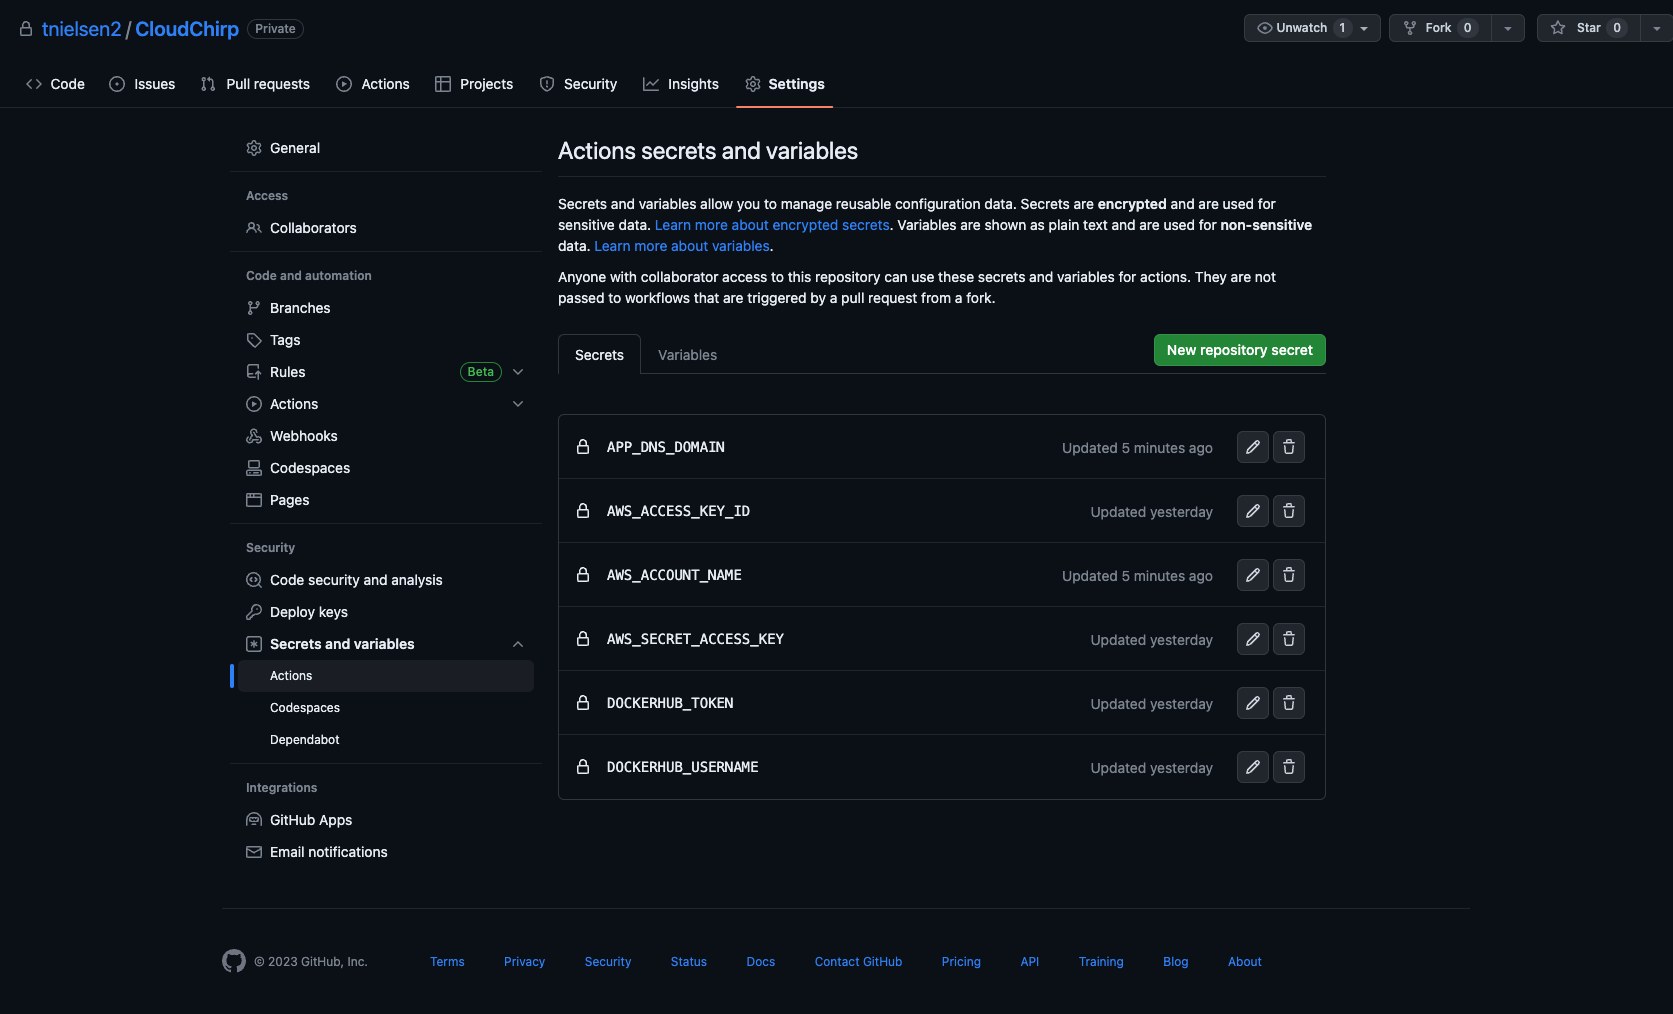
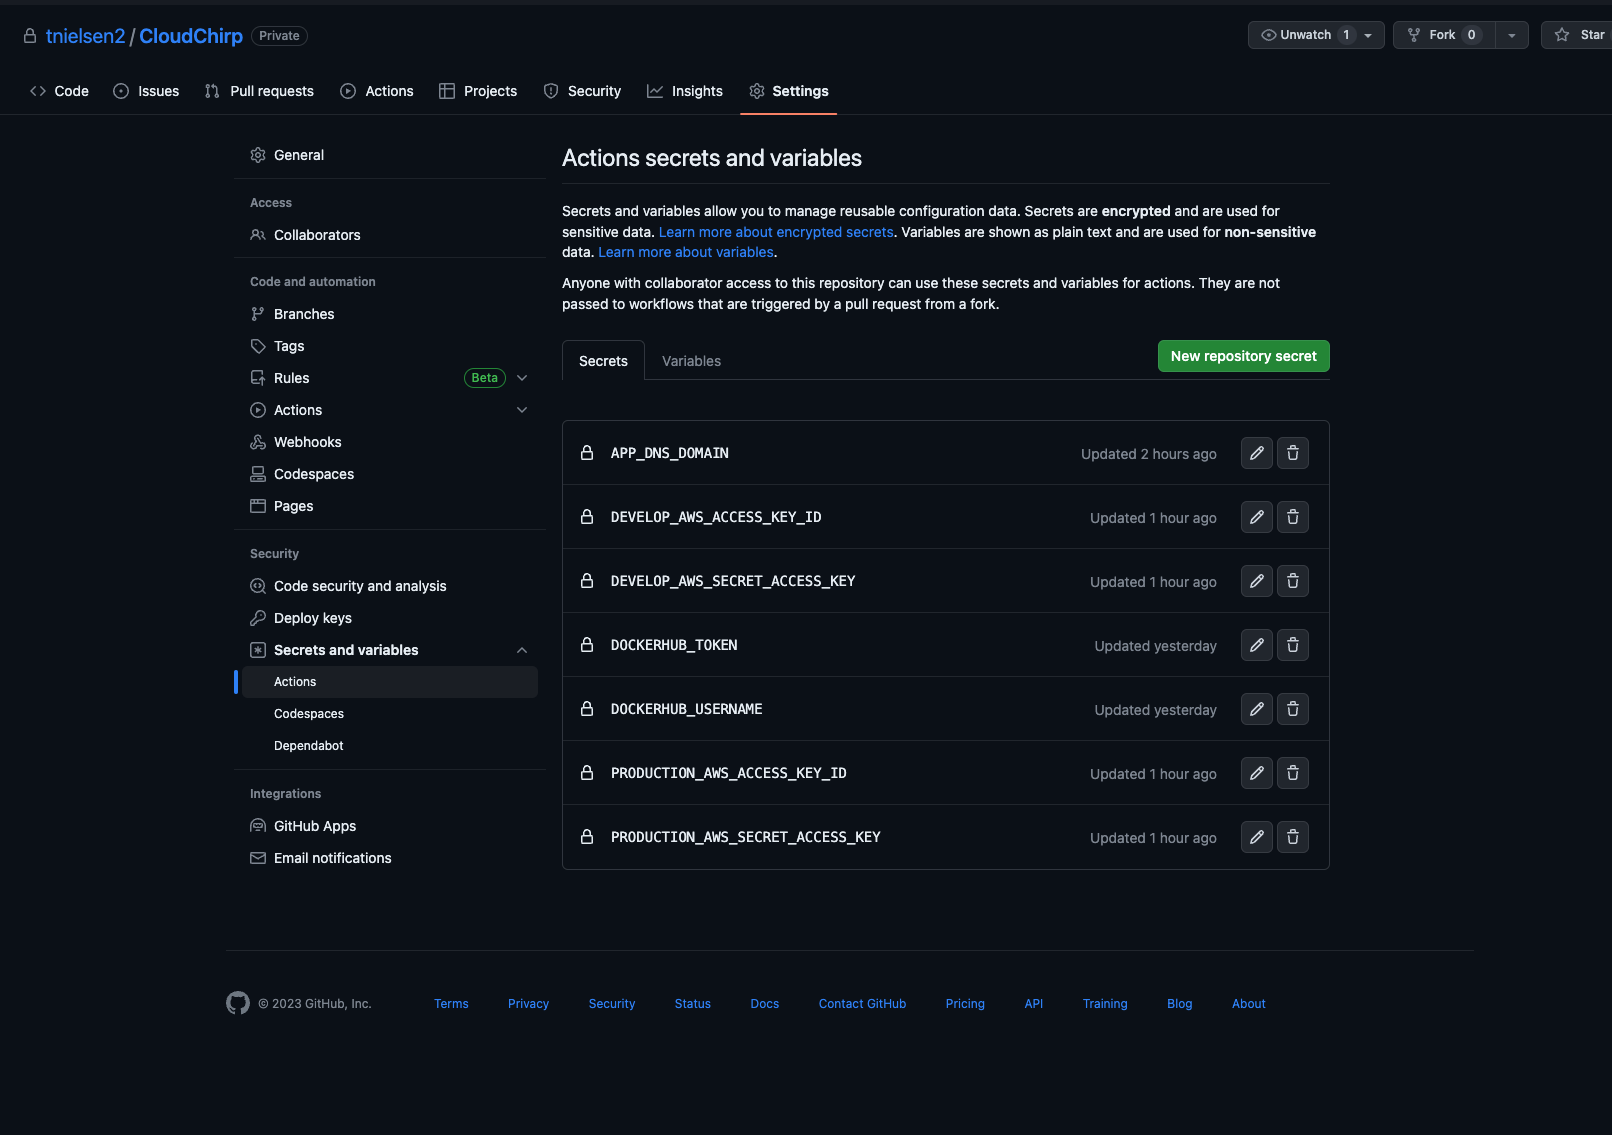
update reademe and pictures

diff --git a/README.md b/README.md
@@ -44,6 +44,6 @@ source .env && aws cloudformation deploy --template-file cloudformation/$ENVIRON
 ![acm-screenshot.png](acm-screenshot.png)
 8. Fetch your aws access keys from the stack outputs and store Github actions secrets as `AWS_ACCESS_KEY_ID` and `AWS_SECRET_ACCESS_KEY`. Also add these to your .env file you want to test locally.
 9. You will now need to configure your Dockerhub credentials `DOCKERHUB_USERNAME` and `DOCKERHUB_TOKEN` for CI to push to Dockerhub.
-10. Configure your secrets in the GitHub actions menu:
+10. Configure your secrets in the GitHub actions menu. Take note that each environment key has a unique prefix. 
 ![actions-screenshot.png](actions-screenshot.png)
 11. Re-run Actions to build and populate the files.
